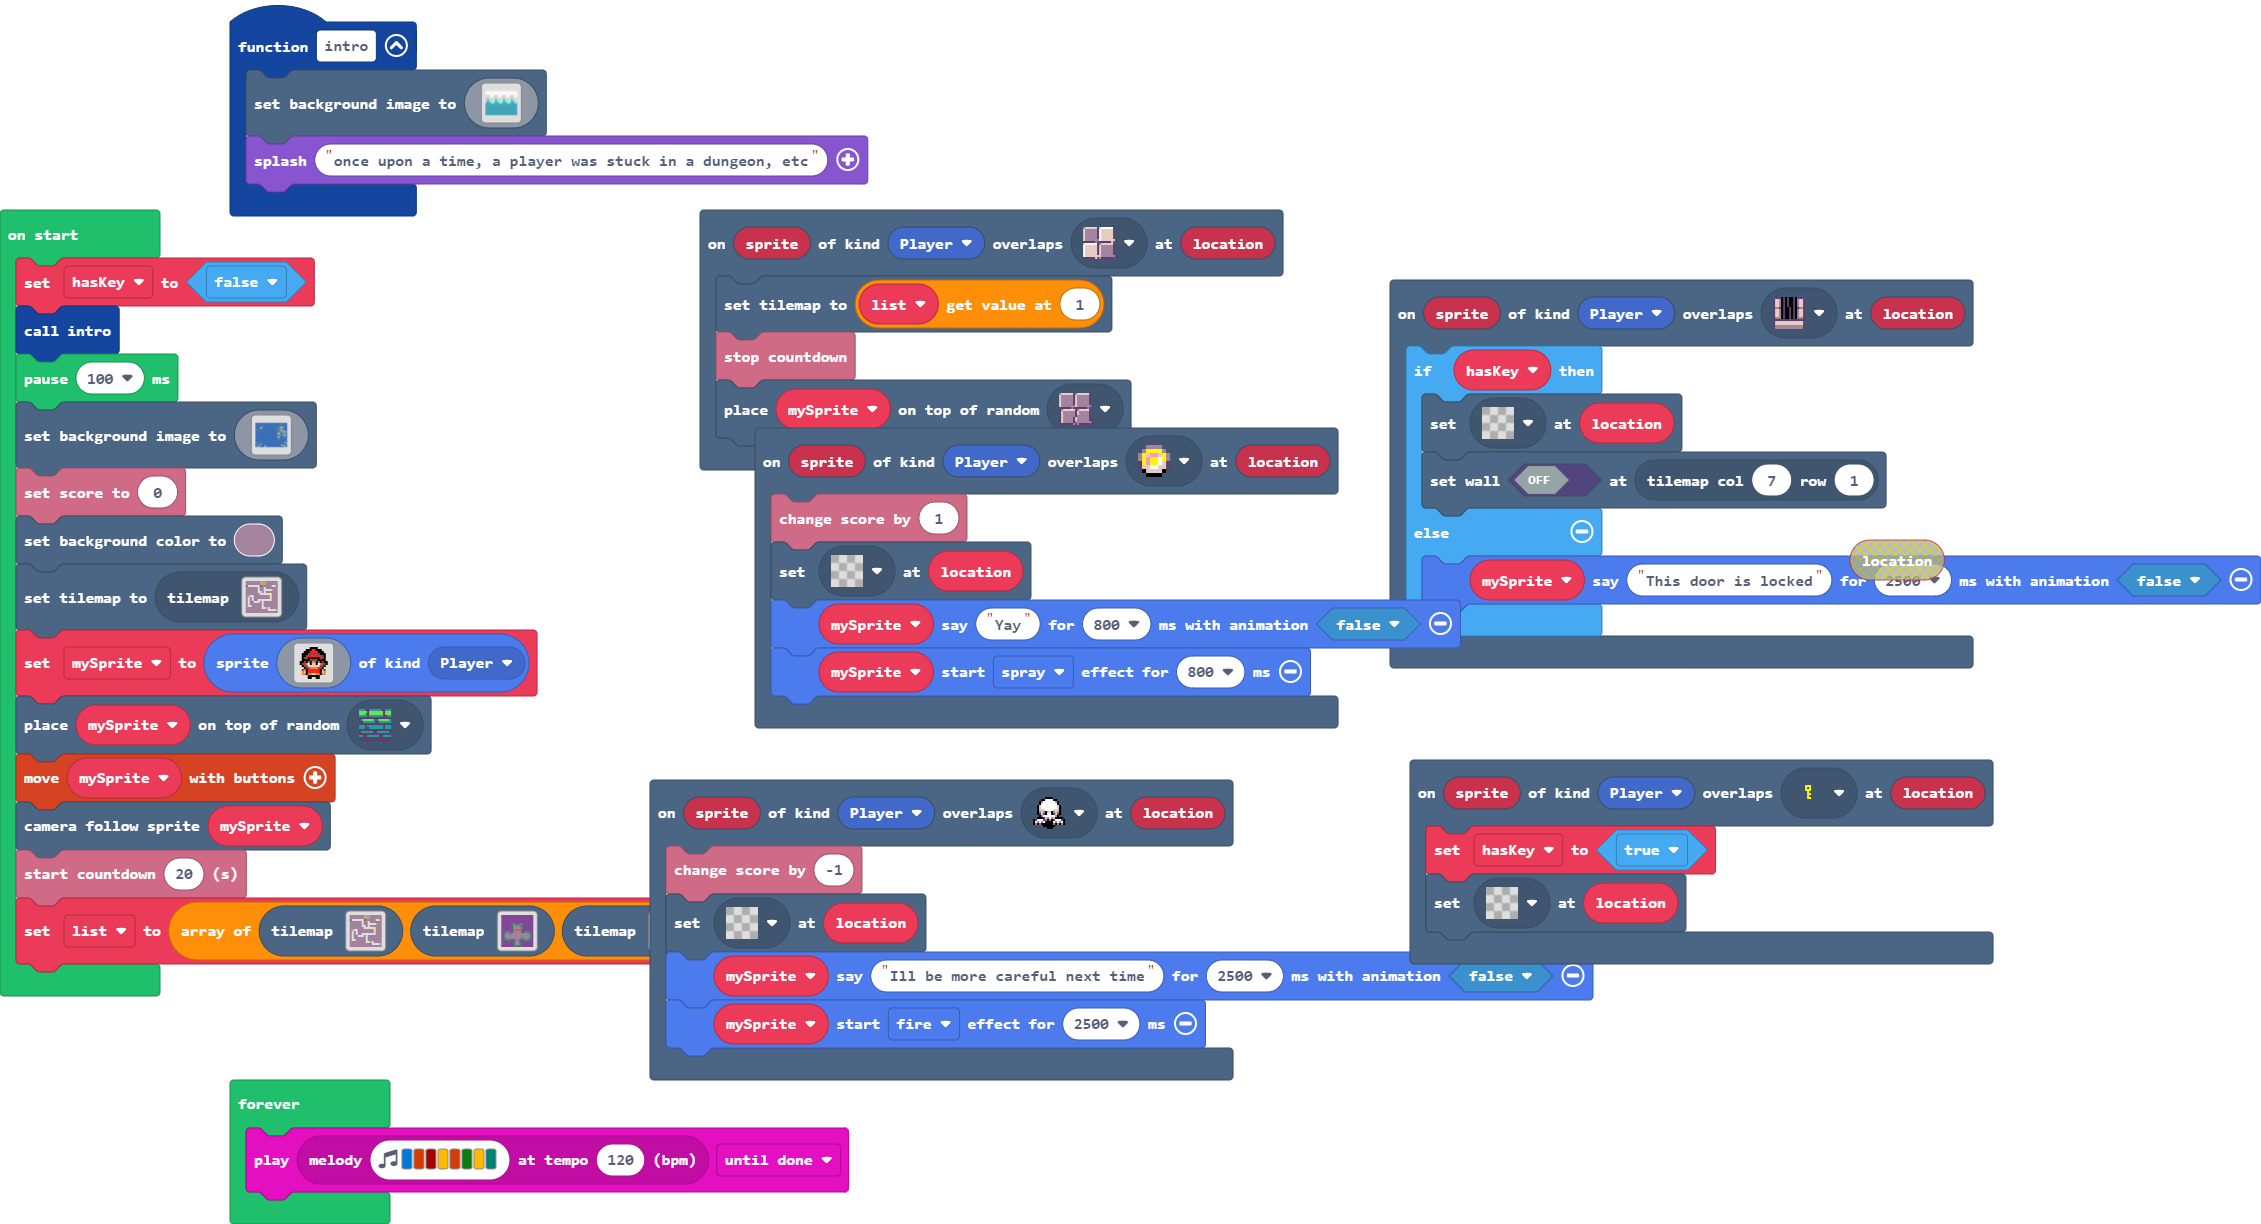
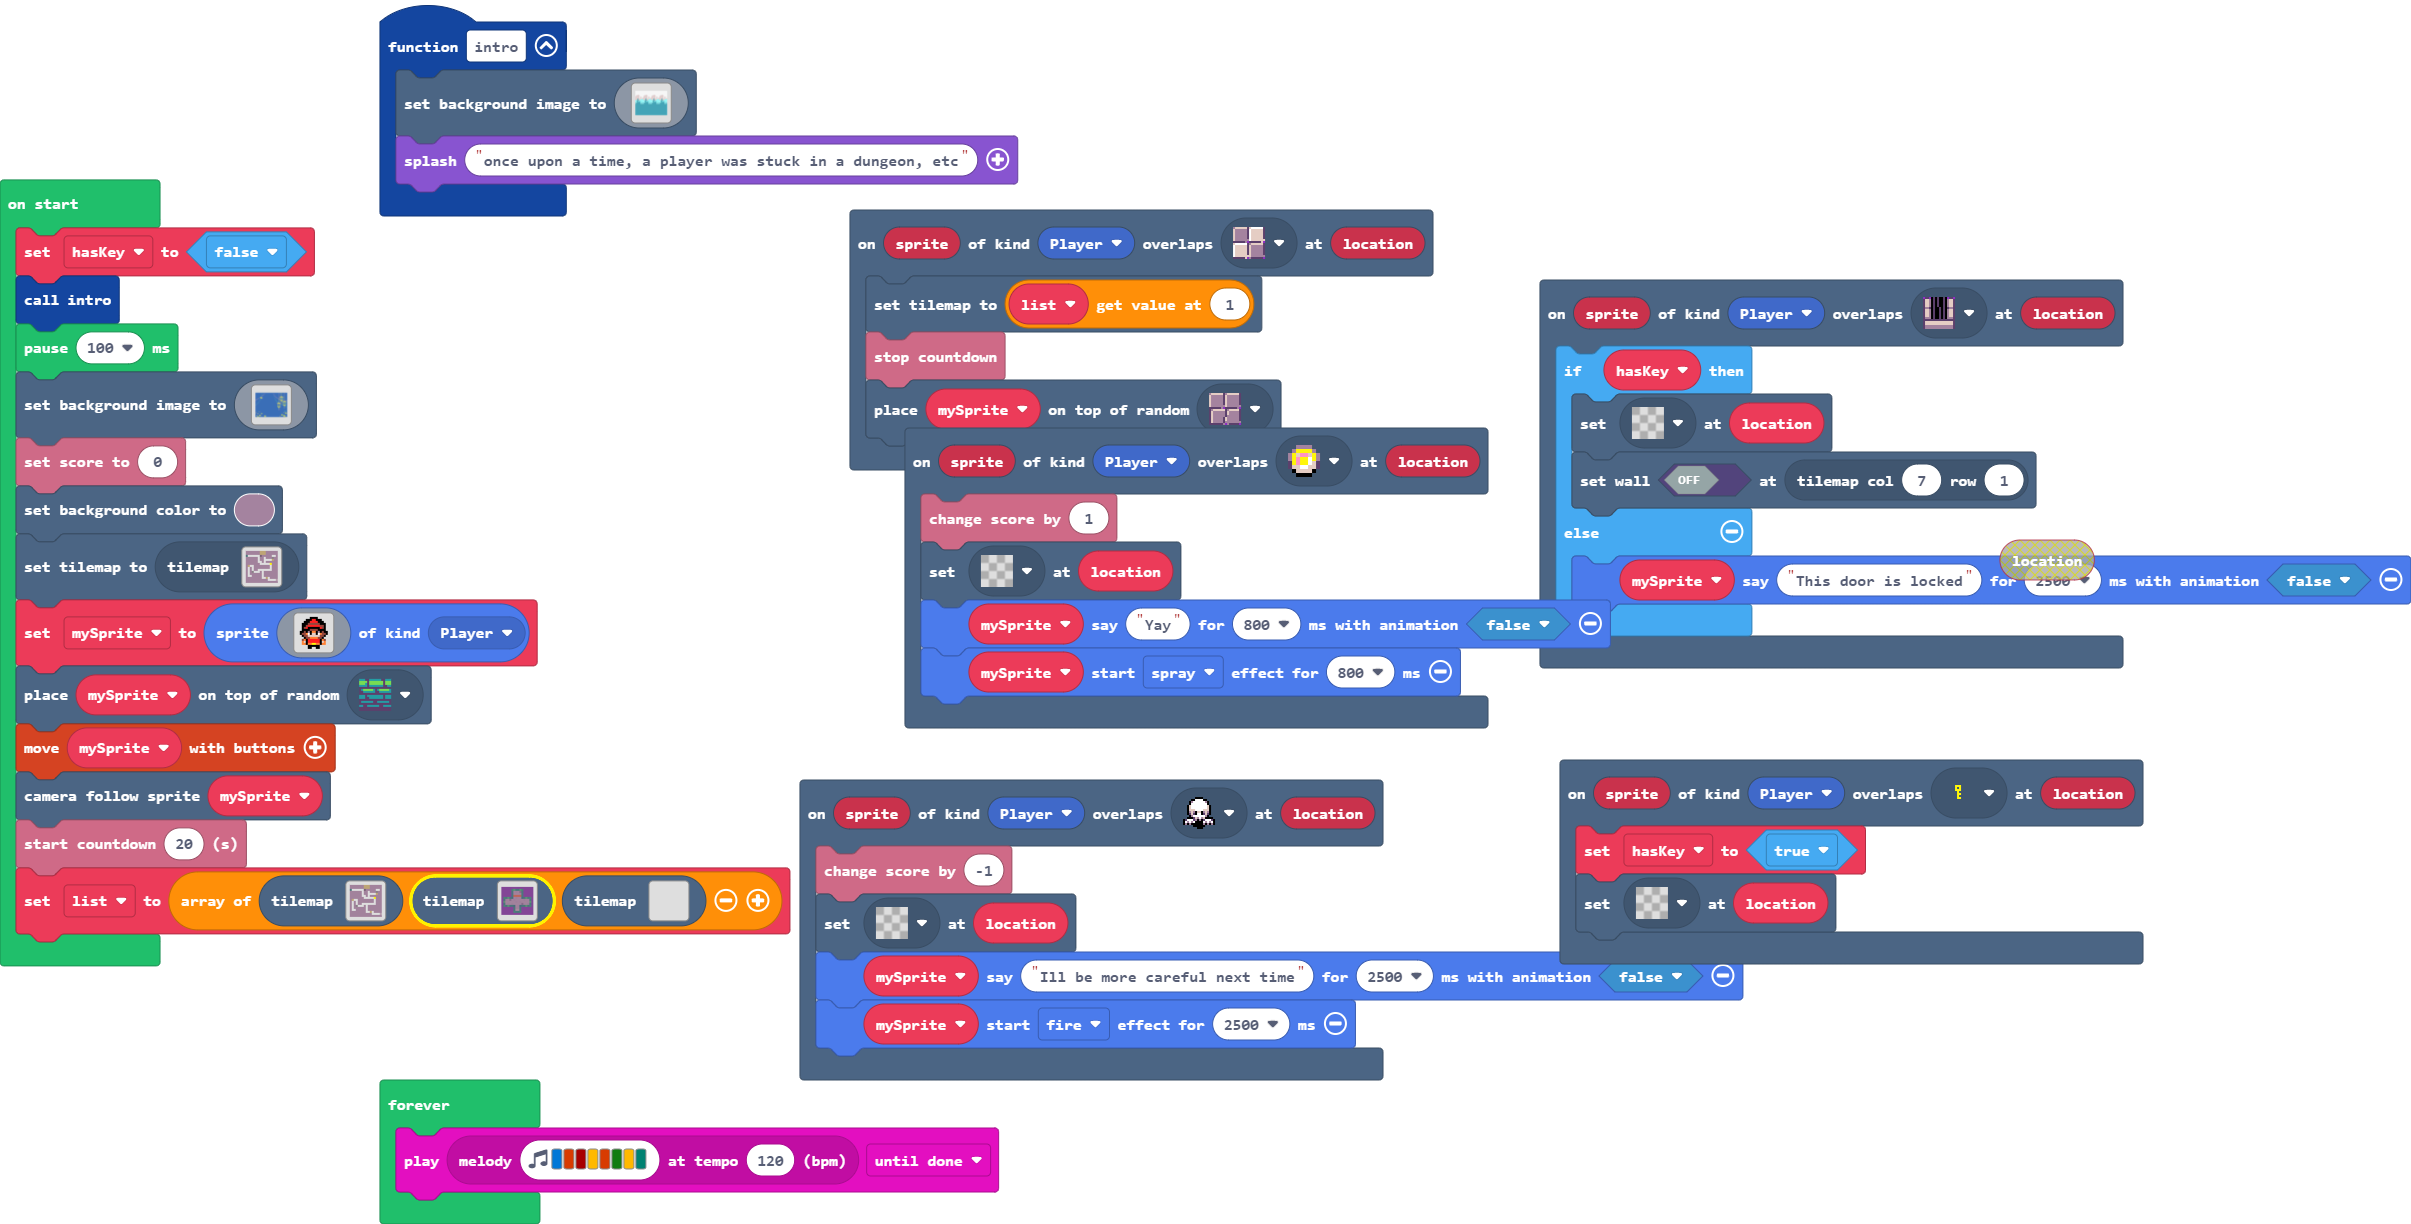
Update main.blocks, tilemap.g.jres, tilemap.g.ts

Changed region(s): [[0.0, 0.0, 1.0, 1.0], [0.8669, 0.7451, 0.8978, 0.8072], [0.8669, 0.5278, 0.8978, 0.5588]]

diff --git a/tilemap.g.ts b/tilemap.g.ts
@@ -297,10 +297,7 @@ namespace myTiles {
 . . . . . . . . . . . . . . . . 
 `, [myTiles.transparency16], TileScale.Sixteen);
             case "level15":
[1 lines of base64/hex data omitted]
-. . . . . . . . . . . . . . . . 
-. . . . . . . . . . . . . . . . 
-. . . . . . . . . . . . . . . . 
[1 lines of base64/hex data omitted]
 . . . . . . . . . . . . . . . . 
 . . . . . 2 2 2 2 2 2 . . . . . 
 . . . . . 2 . . . . 2 . . . . . 
@@ -314,6 +311,7 @@ namespace myTiles {
 . . . . . . 2 . . 2 . . . . . . 
 . . . . . . 2 . . 2 . . . . . . 
 . . . . . . 2 2 2 2 . . . . . . 
+. . . . . . . . . . . . . . . . 
 `, [myTiles.transparency16,sprites.dungeon.greenOuterNorth0,sprites.dungeon.greenOuterNorthWest,sprites.dungeon.greenOuterNorthEast,sprites.dungeon.greenOuterEast0,sprites.dungeon.greenOuterWest1,sprites.dungeon.greenInnerSouthWest,sprites.dungeon.greenInnerSouthEast,sprites.dungeon.greenOuterSouthWest,sprites.dungeon.greenOuterSouthEast,sprites.dungeon.greenOuterSouth0,sprites.dungeon.greenOuterNorth2,sprites.dungeon.greenOuterEast2,sprites.dungeon.greenOuterWest2,sprites.dungeon.greenOuterSouth2,sprites.dungeon.stairSouth,sprites.dungeon.greenInnerNorthWest,sprites.dungeon.greenInnerNorthEast,sprites.dungeon.floorDark3,sprites.dungeon.floorDark0,sprites.dungeon.floorDark1,sprites.dungeon.stairLadder,sprites.dungeon.purpleOuterWest1,sprites.dungeon.purpleOuterEast0,sprites.dungeon.purpleOuterWest0,sprites.dungeon.greenOuterSouth1,sprites.dungeon.floorDark4], TileScale.Sixteen);
         }
         return null;
